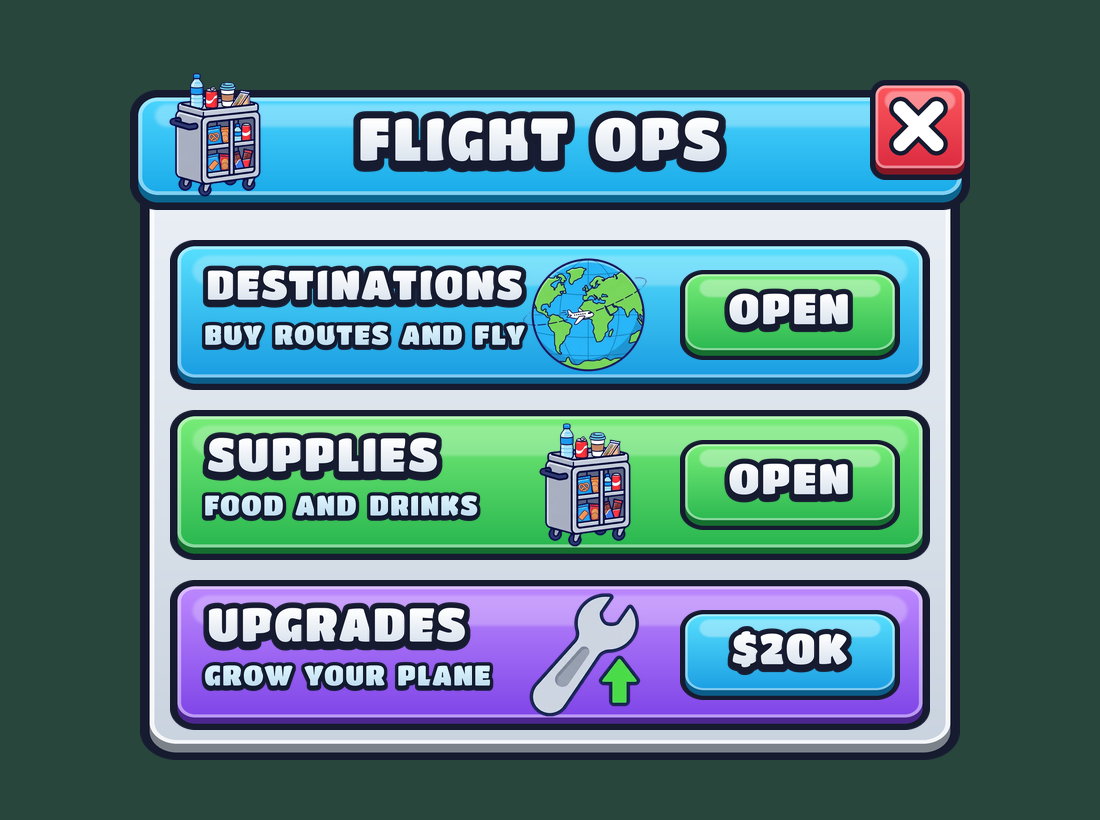
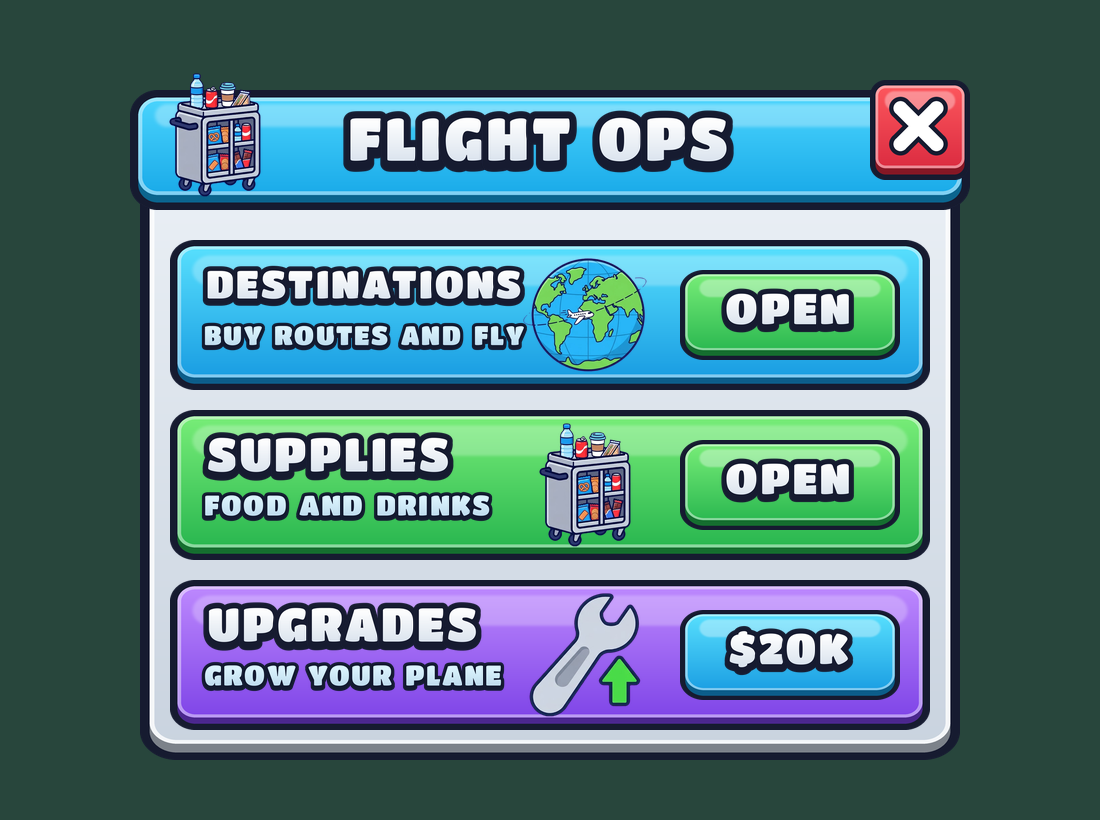
Controle des billets et feuille de mission au nouveau style cartoon (bandeau, X rouge, texte cartoon, valeurs en bleu) ; billet et passeport redessines (gros contour, bandeaux brillants, police cartoon, meme mise en page) ; texte des boutons plus petit et centre, lettres un peu plus espacees
Claude-Session: https://claude.ai/code/session_01PMKoCjSrSzXqgN9hvh9Gpz

diff --git a/Outils/feuille_mission.py b/Outils/feuille_mission.py
@@ -31,6 +31,9 @@ RACINE = os.path.join(os.path.dirname(os.path.abspath(__file__)), "..")
 SORTIE = os.path.join(RACINE, "Textures", "FeuilleMission")
 MODELES = os.path.join(RACINE, "Modeles", "Feuille")
 TITRE = os.path.join(RACINE, "Outils", "ArchivoBlack.ttf")
+CARTOON = os.path.join(RACINE, "Outils", "TitanOne-Regular.ttf")   # police des interfaces cartoon
+CONTOUR = (22, 27, 48, 255)                                          # contour sombre du style cartoon
+VERT_H, VERT_B = (46, 190, 104, 255), (18, 128, 70, 255)
 ETIQ = os.path.join(RACINE, "Outils", "BarlowSemiCondensed-Bold.ttf")
 
 BLEU = (36, 74, 140, 255)
@@ -106,35 +109,33 @@ def billet():
     W, H = 1800, 720
     img = Image.new("RGBA", (W, H), (0, 0, 0, 0))
     d = ImageDraw.Draw(img)
-    d.rounded_rectangle((0, 0, W - 1, H - 1), 40, fill=(255, 255, 255, 255), outline=(200, 205, 214, 255), width=4)
-    # bandeau
-    d.rounded_rectangle((0, 0, W - 1, 140), 40, fill=BLEU)
-    d.rectangle((0, 90, W - 1, 140), fill=BLEU)
-    avion(d, 90, 70, 46, (255, 255, 255, 255))
-    d.text((160, 30), "TYCOON AIR", font=police(TITRE, 64), fill=(255, 255, 255, 255))
-    d.text((860, 44), "BOARDING PASS", font=police(ETIQ, 56), fill=(200, 215, 240, 255))
-    d.text((1390, 44), "ECONOMY", font=police(ETIQ, 56), fill=(200, 215, 240, 255))
+    # style cartoon : gros contour sombre, epaisseur en bas, bandeau vert brillant
+    d.rounded_rectangle((0, 0, W - 1, H - 1), 48, fill=CONTOUR)
+    d.rounded_rectangle((14, 14, W - 15, H - 15), 36, fill=(206, 214, 226, 255))
+    d.rounded_rectangle((14, 14, W - 15, H - 27), 36, fill=(255, 255, 255, 255))
+    bandeau(img, (14, 14, W - 15, 146), 36)
+    avion(d, 96, 80, 46, (255, 255, 255, 255))
+    cartoon(d, (162, 80), "TYCOON AIR", 66, "lm")
+    cartoon(d, (860, 80), "BOARDING PASS", 50, "lm", (220, 255, 232, 255))
+    cartoon(d, (1390, 80), "ECONOMY", 50, "lm", (220, 255, 232, 255))
     # perforation entre le billet et le talon
     for y in range(160, H - 20, 34):
         d.ellipse((1323, y, 1337, y + 14), fill=(210, 214, 222, 255))
-    e = police(ETIQ, 34)
+    e = police(CARTOON, 32)
     for cle, nom in [("NOM", "PASSENGER NAME"), ("DE", "FROM"), ("VERS", "TO"), ("VOL", "FLIGHT"),
-                     ("PORTE", "GATE"), ("SIEGE", "SEAT"), ("EMBARQ", "BOARDING"), ("DATE", "DATE"), ("SEQ", "SEQ No."),
+                     ("PORTE", "GATE"), ("SIEGE", "SEAT"), ("EMBARQ", "BOARDING"), ("DATE", "DATE"),
                      ("TALON_VOL", "FLIGHT"), ("TALON_SIEGE", "SEAT"), ("TALON_VERS", "TO")]:
         x, y = BILLET[cle][:2]
-        d.text((x, y - 44), nom, font=e, fill=GRIS)
-    # avion entre FROM et TO
-    avion(d, 560, 380, 60, BLEU)
-    d.line((440, 380, 480, 380), fill=BLEU, width=6)
+        d.text((x, y - 46), nom, font=e, fill=(120, 132, 150, 255))
     # petit logo de classe
     d.rounded_rectangle((1050, 470, 1150, 570), 16, outline=BLEU, width=6)
     centre(d, (1100, 520), "Y", police(TITRE, 60), BLEU)
     # codes-barres et symboles
     code_barre(d, 60, 620, 980, 690, 7)
     code_barre(d, 1390, 560, 1750, 690, 11)
-    d.text((1010, 630), "SECURITY", font=police(ETIQ, 30), fill=GRIS)
-    d.rounded_rectangle((1010, 666, 1150, 696), 8, outline=GRIS, width=3)
-    d.text((1028, 664), "CHECKED", font=police(ETIQ, 26), fill=GRIS)
+    d.text((1010, 628), "SECURITY", font=police(CARTOON, 28), fill=(120, 132, 150, 255))
+    d.rounded_rectangle((1010, 664, 1160, 696), 8, outline=(120, 132, 150, 255), width=3)
+    d.text((1085, 680), "CHECKED", font=police(CARTOON, 22), fill=(120, 132, 150, 255), anchor="mm")
     img.save(os.path.join(SORTIE, "Billet.png"))
 
 
@@ -152,7 +153,9 @@ def passeport():
     W, H = 1260, 1000
     img = Image.new("RGBA", (W, H), (0, 0, 0, 0))
     d = ImageDraw.Draw(img)
-    d.rounded_rectangle((0, 0, W - 1, H - 1), 34, fill=(236, 240, 226, 255), outline=(120, 40, 50, 255), width=10)
+    d.rounded_rectangle((0, 0, W - 1, H - 1), 44, fill=CONTOUR)
+    d.rounded_rectangle((14, 14, W - 15, H - 15), 32, fill=(200, 206, 186, 255))
+    d.rounded_rectangle((14, 14, W - 15, H - 27), 32, fill=(236, 240, 226, 255))
     # fond guilloche discret (dessine a part puis decoupe a l'interieur du cadre)
     motif = Image.new("RGBA", (W, H), (0, 0, 0, 0))
     dm = ImageDraw.Draw(motif)
@@ -160,29 +163,44 @@ def passeport():
         r = 40 + i * 18
         dm.ellipse((W * 0.62 - r, H * 0.45 - r * 0.6, W * 0.62 + r, H * 0.45 + r * 0.6), outline=(214, 224, 204, 255), width=2)
     masque = Image.new("L", (W, H), 0)
-    ImageDraw.Draw(masque).rounded_rectangle((12, 12, W - 13, H - 13), 26, fill=255)
+    ImageDraw.Draw(masque).rounded_rectangle((20, 130, W - 21, H - 33), 26, fill=255)
     img.paste(motif, (0, 0), Image.composite(motif.getchannel("A"), Image.new("L", (W, H), 0), masque))
     # bandeau
-    d.rounded_rectangle((0, 0, W - 1, 120), 34, fill=(120, 40, 50, 255))
-    d.rectangle((0, 70, W - 1, 120), fill=(120, 40, 50, 255))
-    d.ellipse((40, 22, 116, 98), outline=(230, 196, 120, 255), width=6)
-    avion(d, 78, 60, 26, (230, 196, 120, 255))
-    d.text((140, 26), "PASSPORT", font=police(TITRE, 60), fill=(240, 220, 170, 255))
-    d.text((560, 40), "PASSEPORT  /  PASAPORTE", font=police(ETIQ, 40), fill=(230, 196, 160, 255))
-    e = police(ETIQ, 32)
+    bandeau(img, (14, 14, W - 15, 124), 32, ((176, 58, 76, 255), (120, 32, 48, 255)))
+    d.ellipse((40, 30, 112, 102), outline=(255, 255, 255, 255), width=6)
+    avion(d, 76, 66, 24, (255, 255, 255, 255))
+    cartoon(d, (132, 68), "PASSPORT", 58, "lm")
+    cartoon(d, (560, 68), "PASSEPORT  /  PASAPORTE", 36, "lm", (255, 220, 226, 255))
+    e = police(CARTOON, 30)
     for cle, nom in [("NOM", "SURNAME"), ("NUMERO", "PASSPORT No."), ("PRENOM", "GIVEN NAMES"),
                      ("NATION", "NATIONALITY"), ("SEXE", "SEX"), ("NAISSANCE", "DATE OF BIRTH"),
                      ("EXPIRE", "DATE OF EXPIRY")]:
         x, y = PASSEPORT[cle]
         d.text((x, y - 42), nom, font=e, fill=(110, 116, 100, 255))
-    # cadre photo + signature
-    x, y, c = PASSEPORT["PHOTO"]
-    d.rectangle((x - 6, y - 6, x + c + 6, y + c + 6), fill=(200, 206, 192, 255), outline=(70, 74, 64, 255), width=4)
-    d.text((x, y + c + 26), "SIGNATURE", font=police(ETIQ, 28), fill=(110, 116, 100, 255))
-    d.line((x, y + c + 100, x + c, y + c + 100), fill=(110, 116, 100, 255), width=3)
     # zone de lecture automatique (MRZ)
-    d.rectangle((30, 760, W - 30, 960), fill=(248, 250, 244, 255))
+    d.rounded_rectangle((30, 760, W - 30, 955), 14, fill=(248, 250, 244, 255), outline=(200, 206, 186, 255), width=3)
     img.save(os.path.join(SORTIE, "Passeport.png"))
+
+
+def bandeau(img, boite, r, couleurs=(VERT_H, VERT_B)):
+    """Bandeau du haut d'un document : degrade vertical + reflet, coins du haut arrondis."""
+    x0, y0, x1, y1 = boite
+    g = np.linspace(0, 1, y1 - y0)[:, None, None]
+    c = np.array(couleurs[0][:3]) * (1 - g) + np.array(couleurs[1][:3]) * g
+    bande = Image.fromarray(np.repeat(c, x1 - x0, 1).astype(np.uint8)).convert("RGBA")
+    m = Image.new("L", (x1 - x0, y1 - y0), 0)
+    ImageDraw.Draw(m).rounded_rectangle((0, 0, x1 - x0 - 1, y1 - y0 + r), r, fill=255)
+    img.paste(bande, (x0, y0), m)
+    reflet = Image.new("L", img.size, 0)
+    ImageDraw.Draw(reflet).rounded_rectangle((x0 + r, y0 + 10, x1 - r, y0 + (y1 - y0) * 0.36), 16, fill=60)
+    img.paste(Image.new("RGBA", img.size, (255, 255, 255, 255)), (0, 0), reflet)
+    ImageDraw.Draw(img).line((x0, y1, x1, y1), fill=CONTOUR, width=6)
+
+
+def cartoon(d, xy, texte, taille, ancre="lm", couleur=(255, 255, 255, 255)):
+    """Texte blanc tres epais avec un gros contour sombre (comme les interfaces du jeu)."""
+    d.text(xy, texte, font=police(CARTOON, taille), fill=couleur, anchor=ancre,
+           stroke_width=max(4, taille // 9), stroke_fill=CONTOUR)
 
 
 # ---------- cases et tampons ----------

diff --git a/Outils/interface_cartoon.py b/Outils/interface_cartoon.py
@@ -128,16 +128,18 @@ ecriture_cartoon := class:
     Espace:float = {espace:.4f}
     # hauteur de l'image d'une lettre par rapport a la hauteur de la boite
     Agrandir:float = 1.30
+    # petit espace en plus entre 2 lettres (divise par la hauteur) : les contours ne se chevauchent pas trop
+    Espacement:float = 0.025
 
     # Largeur du texte pour une hauteur d'image de 1.
     Mesure(S:string):float =
         var W:float = 0.0
         for (C : S):
             if (R := Largeurs[C]):
-                set W += R - 2.0 * Marge
+                set W += R - 2.0 * Marge + Espacement
             else:
                 set W += Espace
-        W + 2.0 * Marge
+        W + 2.0 * Marge - Espacement
 
     Ecrire(S:string, Hex:string, J:text_justification, X:float, Y:float, L:float, H:float, Couche:type{{_X:int where 0 <= _X, _X <= 2147483647}}):[]canvas_slot =
         W0 := Mesure(S)
@@ -156,7 +158,7 @@ ecriture_cartoon := class:
         for (C : S):
             if (Img := Glyphes[C], R := Largeurs[C]):
                 set Slots += array{{Lettre(Img, Teinte, PX, Haut, R * T, T, Couche)}}
-                set PX += (R - 2.0 * Marge) * T
+                set PX += (R - 2.0 * Marge + Espacement) * T
             else:
                 set PX += Espace * T
         Slots
@@ -271,7 +273,7 @@ def apercu(largeurs, marge):
 
     def ecrire(s, x, y, l, h, teinte="FFFFFF", centre=True):
         T = h * 1.30
-        w0 = sum((largeurs[c] - 2 * marge) if c in largeurs else 0.30 for c in s) + 2 * marge
+        w0 = sum((largeurs[c] - 2 * marge + 0.025) if c in largeurs else 0.30 for c in s) + 2 * marge
         T = min(T, l / w0)
         px = x + ((l - w0 * T) / 2 if centre else 0)
         top = y + h / 2 - T / 2
@@ -283,7 +285,7 @@ def apercu(largeurs, marge):
                 a = np.asarray(g).astype(float)
                 a[..., :3] *= tt[:3]
                 im.alpha_composite(Image.fromarray(a.astype(np.uint8)), (int(px), int(top)))
-                px += (largeurs[c] - 2 * marge) * T
+                px += (largeurs[c] - 2 * marge + 0.025) * T
             else:
                 px += 0.30 * T
 
